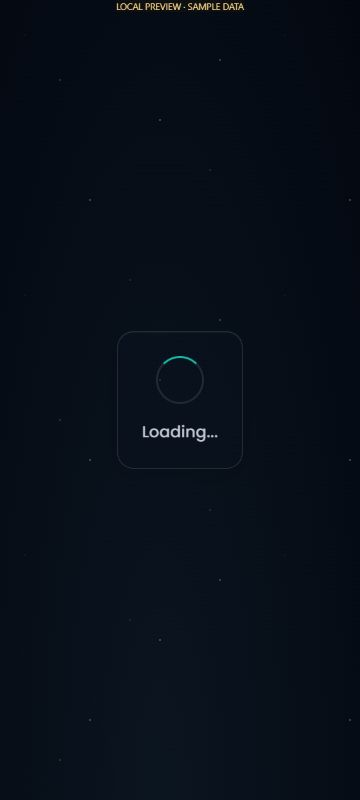
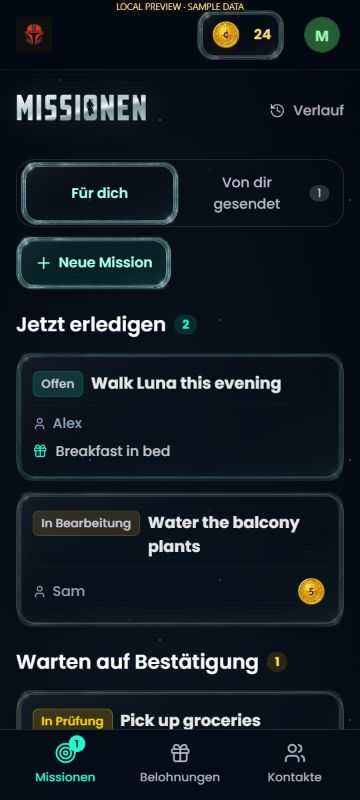
docs: finalize visual delivery evidence

diff --git a/memory/LOG.md b/memory/LOG.md
@@ -4,7 +4,7 @@
 - Built-in imagegen generated the glass frame; a follow-up edit produced actual alpha after the first RGB output exposed black during compositing. Final 512px WebP is 32,952 bytes. Center/exterior alpha verified; draft excluded from production.
 - Updated index.css, BaseCard/AppButton, TaskCard/RewardCard, MissionsHeader/PageHeader and mission grids. Mandalore heading/live copy, no subtitle, clear reflected edges, darker forms, two desktop mission columns, optional appearance unchanged. Removed obsolete animation/material duplication; 116 net source lines deleted.
 - 340 tests/27 files, clean app TypeScript/build, lint 0 errors/3 known warnings. Browser verified 1280 desktop, 390/360 phone, German/Rose, landscape, focus/hover/Escape and sample creation. Evidence and limitations in design/rounds/round-02/verification/README.md. No browser errors; fixture client warnings retained in evidence.
-- Source commit 03f9323 is independently reversible; design/evidence/memory handoff is separate. Push to main remains authorized and is the final delivery step. No live database/account/security changes. Physical iPhone and accessibility OS preference checks remain for device validation; release/security follows the visual milestone.
+- Source commit 03f9323 is independently reversible; design/evidence/memory handoff is separate. Source and design handoff (a4bd2fb) were pushed to origin/main. No live database/account/security changes. Physical iPhone and accessibility OS preference checks remain for device validation; release/security follows the visual milestone.
 
 ## 2026-09-07 — Material and lettering mockups (round 02; approval pending)
 

diff --git a/memory/STATE.md b/memory/STATE.md
@@ -17,7 +17,7 @@ Private missions and rewards between connected accounts. One People list support
 - Dependency audit: 2 moderate React Router package findings remain; reviewed major upgrade is next security work. Compatible patches removed the other reported advisories.
 
 ## Latest milestone — Starlight glass A implemented
-- Michael approved round-02 A on 2026-09-07; B/C remain saved future skins. Source commit 03f9323 contains this reversible visual pass separately from the earlier UX work.
+- Michael approved round-02 A on 2026-09-07; B/C remain saved future skins. Source commit 03f9323 is pushed to main and contains this reversible visual pass separately from the earlier UX work.
 - Real Mandalore headings, no Missions subtitle, transparent reflected controls/cards and credit capsule. One generated 32,952-byte RGBA WebP frame; no skin selector or dependency added. Two desktop mission columns and wrapping phone headers; forms remain darker.
 - Browser checked desktop, 390/360px phones, German/Rose, landscape, focus/Escape and successful in-memory mission creation. Final gates: 340/27 tests, clean app TypeScript/build, lint 0 errors/3 known warnings. See [[../design/rounds/round-02/verification/README]].
 - Next: Michael tries A in the working preview; then resume release/security. No service inputs required to inspect the visual result. Physical iPhone performance and OS contrast/transparency emulation remain unverified.

diff --git a/protocol/LOG.md b/protocol/LOG.md
@@ -45,3 +45,4 @@
 2026-09-07 — main: material/lettering round 02 completed as mockups only. Three built-in imagegen outputs directly inspected and saved with prompts/review under design/rounds/round-02. Agent recommends A; Michael approval pending. User explicitly sequences approval → implementation → release/security. No app source/runtime/config or production changes; design/memory/protocol files left local for review.
 
 2026-09-07 — A approved and implemented as 03f9323; one 32,952-byte RGBA frame, live Mandalore headings, clearer surfaces/two-column missions. 340/27 tests, app types/build pass, lint 0 errors/3 known warnings. Browser desktop/phone/German/landscape/hover/focus/create checked; design evidence and memory saved. B/C deferred; release/security next.
+2026-09-07 — Pushed source 03f9323 and design handoff a4bd2fb to origin/main. Replaced the German phone evidence image after discovering the first capture showed its loading state; verified the replacement visually. No runtime changes after the final gates.
